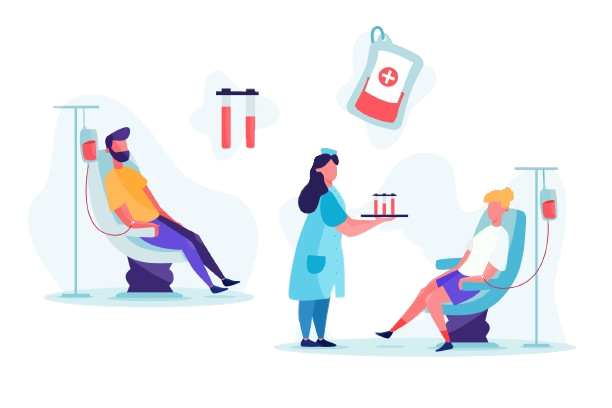
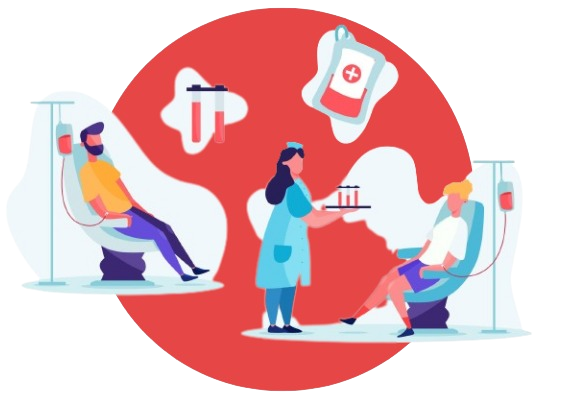
Index page finished

diff --git a/setup/static/styles/index.css b/setup/static/styles/index.css
@@ -1,49 +1,114 @@
 /* INDEX PAGE */
-.index {
-    margin: 30px 0 0 0;
-}
 
 .index-main {
     text-align: justify;
-    height: 360px;
+    height: fit-content;
     width: 100%;
-    background-image: url("../assets/images/index_banner.jpg");
-    background-size: cover;
-    background-repeat: no-repeat;
 }
 
-.index-main p {
-    margin: 10px;
+.index-main img {
+    position: absolute;
+    top: 120px;
+    width: 100%;
+    height: cover;
+    z-index: -1;
+    mask-image: linear-gradient(to bottom, #000000 50%, transparent);
+    -webkit-mask-image: linear-gradient(to bottom, #000000 50%, transparent);
+}
+
+.main-txt {
+    margin: 0 0 0 30px;
     width: 35%;
-}
-
-aside {
-    grid-area: aside;
-    width: 650px;
-    display: grid;
-    grid-template-rows: 18% 82%;
+    font-size: clamp(0.8rem, 1.5vw, 1.5rem);
+    color: rgb(223, 89, 89);
 }
 
 .index-bags {
-    height: 100px;
-    width: 100%;
+    width: 80%;
+    height: 120px;
+    margin: 10% 10% 5% 10%;
+    display: flex;
+    flex-wrap: wrap;
+    border-radius: 5px;
     background-color: #FA9884;
-}
-
-.index-image {
-    position: relative;
-    overflow: hidden;
-    left: 120px;
-    
-
-}
-
-.index-image img{
-    position: relative;
-    top: -340px;
-    left: -80px;
+    box-shadow: 1px 1px 5px #FA9884;
 }
 
 .index-donate {
+    display: flex;
+    justify-content: space-between;
+    align-items: center;
+    margin-bottom: 5%;
+}
+
+.donate-img {
+    width: fit-content;
+    position: relative;
+    left: 0;
+    margin-left: 5%;
+}
+
+.donate-img img{
+    width: 100%;
+}
+
+.donate-txt {
+    width: 35%;
+    height: fit-content;
+    font-size: 1.5rem;
+    display: flex;
+    align-items: center;
+    text-align: center;
+    background-color: #DD5353;
+    color: whitesmoke;
+    margin-right: 10%;
+    padding: 10px;
+    box-shadow: 1px 1px 5px #DD5353;
+    border-radius: 3px;
+}
+.donate-txt a {
+    color: whitesmoke;
+}
+
+@media screen and (max-width: 700px) {
+    .index-main {
+        display: flex;
+        justify-content: center;
+        text-align: center;
+        background: linear-gradient(to bottom, #F6C7BF 40%, transparent);
+        padding-top: 50px;
+        position: relative;
+        top: -40px;
+        z-index: -1;
+    }
+
+    .index-main img {
+        display: none;
+    }
     
+    .main-txt {
+        width: 65%;
+        font-size: 1rem;
+        margin: 0;
+    }
+
+    .index-bags {
+        margin: 0px 10% 10% 10%;
+    }
+
+    .index-donate {
+        flex-wrap: wrap;
+        justify-content: center;
+    }
+
+    .donate-img {
+        width: 80%;
+        margin: 0;
+    }
+
+    .donate-txt {
+        width: auto;
+        margin: 3%;
+        font-size: clamp(0.8rem, 4vw, 1.3rem);
+    }
 }

diff --git a/templates/bolsas/index.html b/templates/bolsas/index.html
@@ -15,23 +15,20 @@
                     de forma mais eficiente e rápida.
                 </p>
             </div>
-            
+            <img src="{% static 'assets/images/index_banner.jpg' %}" alt="Banner Hemosc">
         </main>
 
-        <aside>
-            <div class="index-bags">
-            </div>
-
-            <div class="index-image">
-                <svg width="400" height="400">
-                    <circle cx="200" cy="200" r="200" fill="#E74646" />
-                </svg>
+        <div class="index-bags">
+        </div>
+        
+        <div class="index-donate">
+            <div class="donate-img">
                 <img src="{% static 'assets/images/index_image.png' %}" alt="Imagem doação de sangue">
             </div>
-        </aside>
-
-        <div class="index-donate">
-            <p>A Sua Doação Pode Salvar Muitas Vidas! <a href="https://www.hemosc.org.br/agende-sua-doacao.html">Agende Sua Doação Agora!</a></p>
+            <div class="donate-txt">
+                <p>A Sua Doação Pode Salvar Muitas Vidas! <a href="https://www.hemosc.org.br/agende-sua-doacao.html">Agende Sua Doação Agora!</a></p>
+            </div>
         </div>
+        
     </div>
 {% endblock %}

diff --git a/templates/shared/base1.html b/templates/shared/base1.html
@@ -9,7 +9,7 @@
     <title>Hemosc UFMG</title>
     <link rel="preconnect" href="https://fonts.googleapis.com">
     <link rel="preconnect" href="https://fonts.gstatic.com" crossorigin>
-    <link href="https://fonts.googleapis.com/css2?family=Inter&display=swap" rel="stylesheet">
+    <link href="https://fonts.googleapis.com/css2?family=Geologica&display=swap" rel="stylesheet">
     <link rel="stylesheet" href="{% static '/styles/style.css' %}">
 </head>
 

diff --git a/templates/shared/base2.html b/templates/shared/base2.html
@@ -9,7 +9,7 @@
     <title>Hemosc UFMG</title>
     <link rel="preconnect" href="https://fonts.googleapis.com">
     <link rel="preconnect" href="https://fonts.gstatic.com" crossorigin>
-    <link href="https://fonts.googleapis.com/css2?family=Inter&display=swap" rel="stylesheet">
+    <link href="https://fonts.googleapis.com/css2?family=Geologica&display=swap" rel="stylesheet">
     <link rel="stylesheet" href="{% static '/styles/style.css' %}">
 </head>
 

diff --git a/setup/static/styles/style.css b/setup/static/styles/style.css
@@ -4,7 +4,7 @@
 @import "index.css";
 
 body{
-    font-family: 'Inter', sans-serif;
+    font-family: 'Geologica', sans-serif;
     margin: 0 auto;
     height: 100%;
 }
